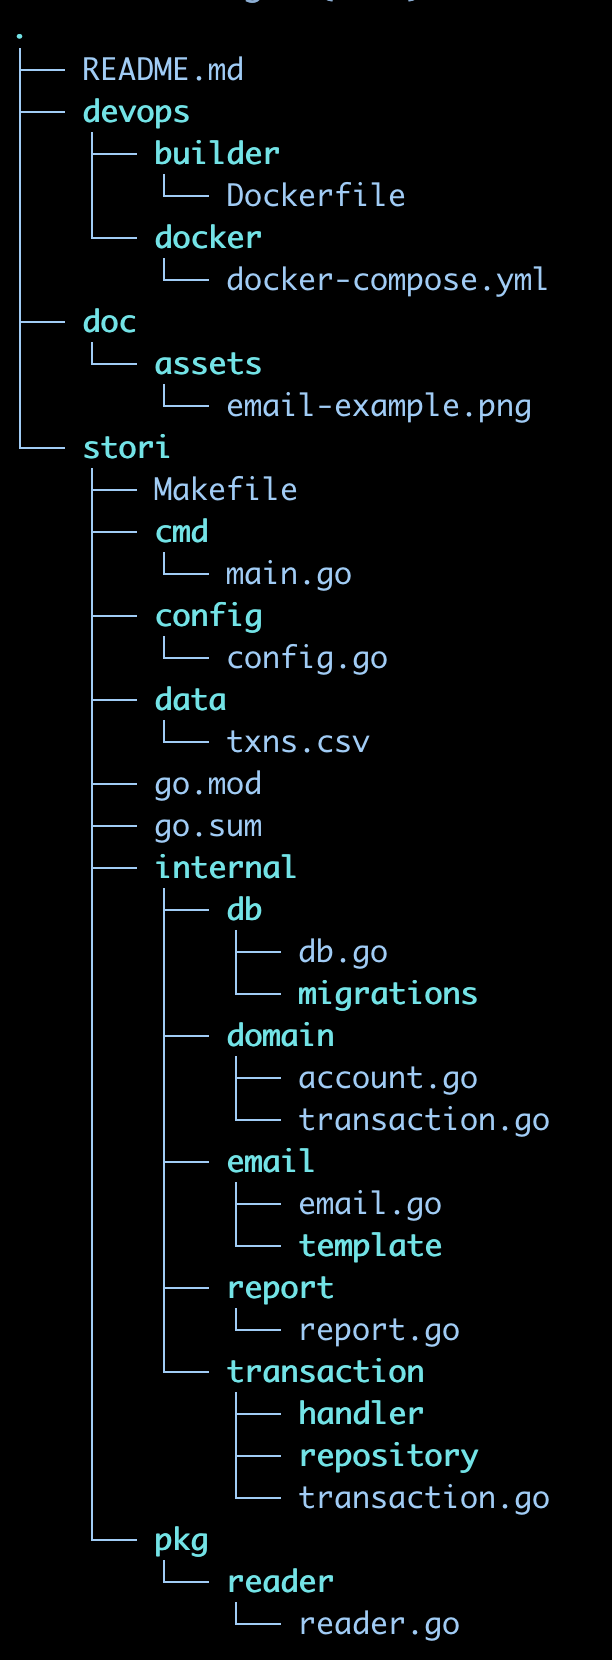
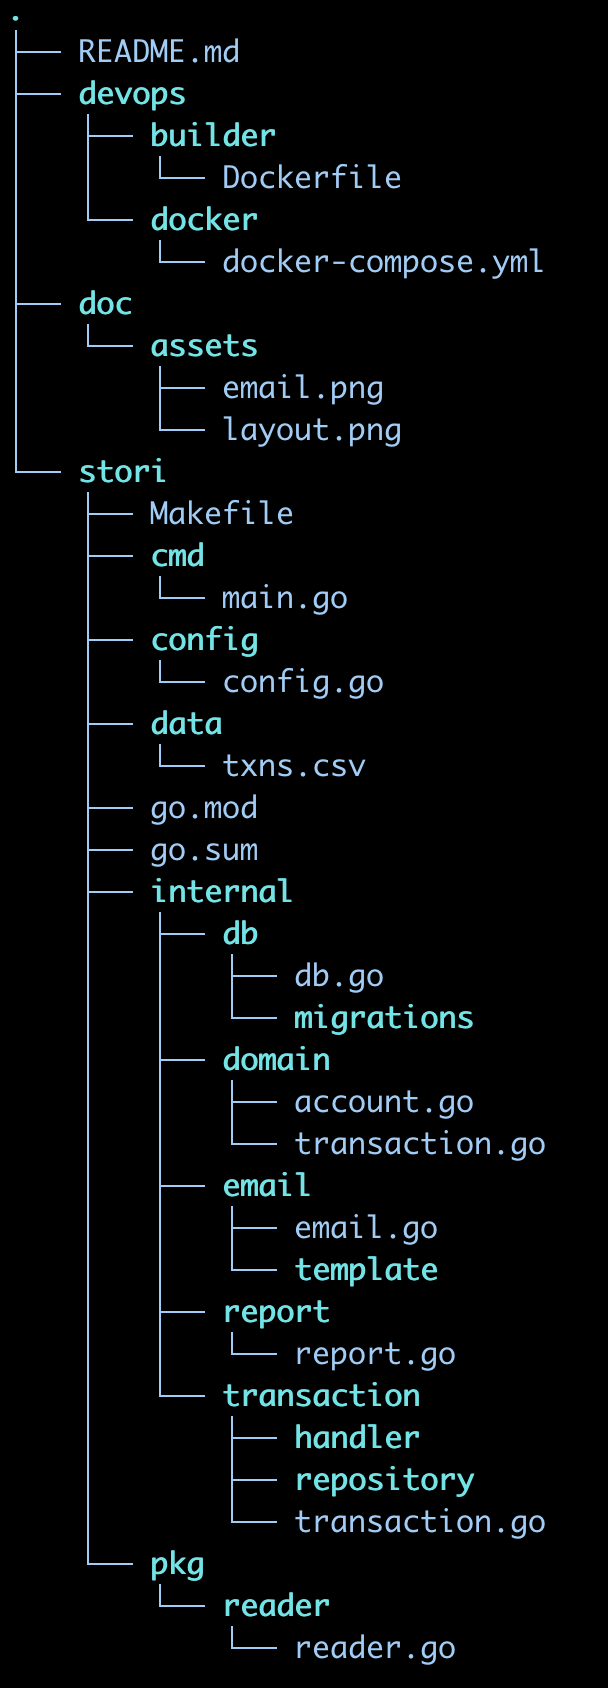
fix docs

diff --git a/README.md b/README.md
@@ -48,8 +48,4 @@ $ docker logs -f app.stori.dev
 
 Email info
 
-![Drag Racing](doc/assets/email-example.png)
-
-Logs info
-
-![Drag Racing](doc/assets/logs.png)
+![Drag Racing](doc/assets/email.png)
